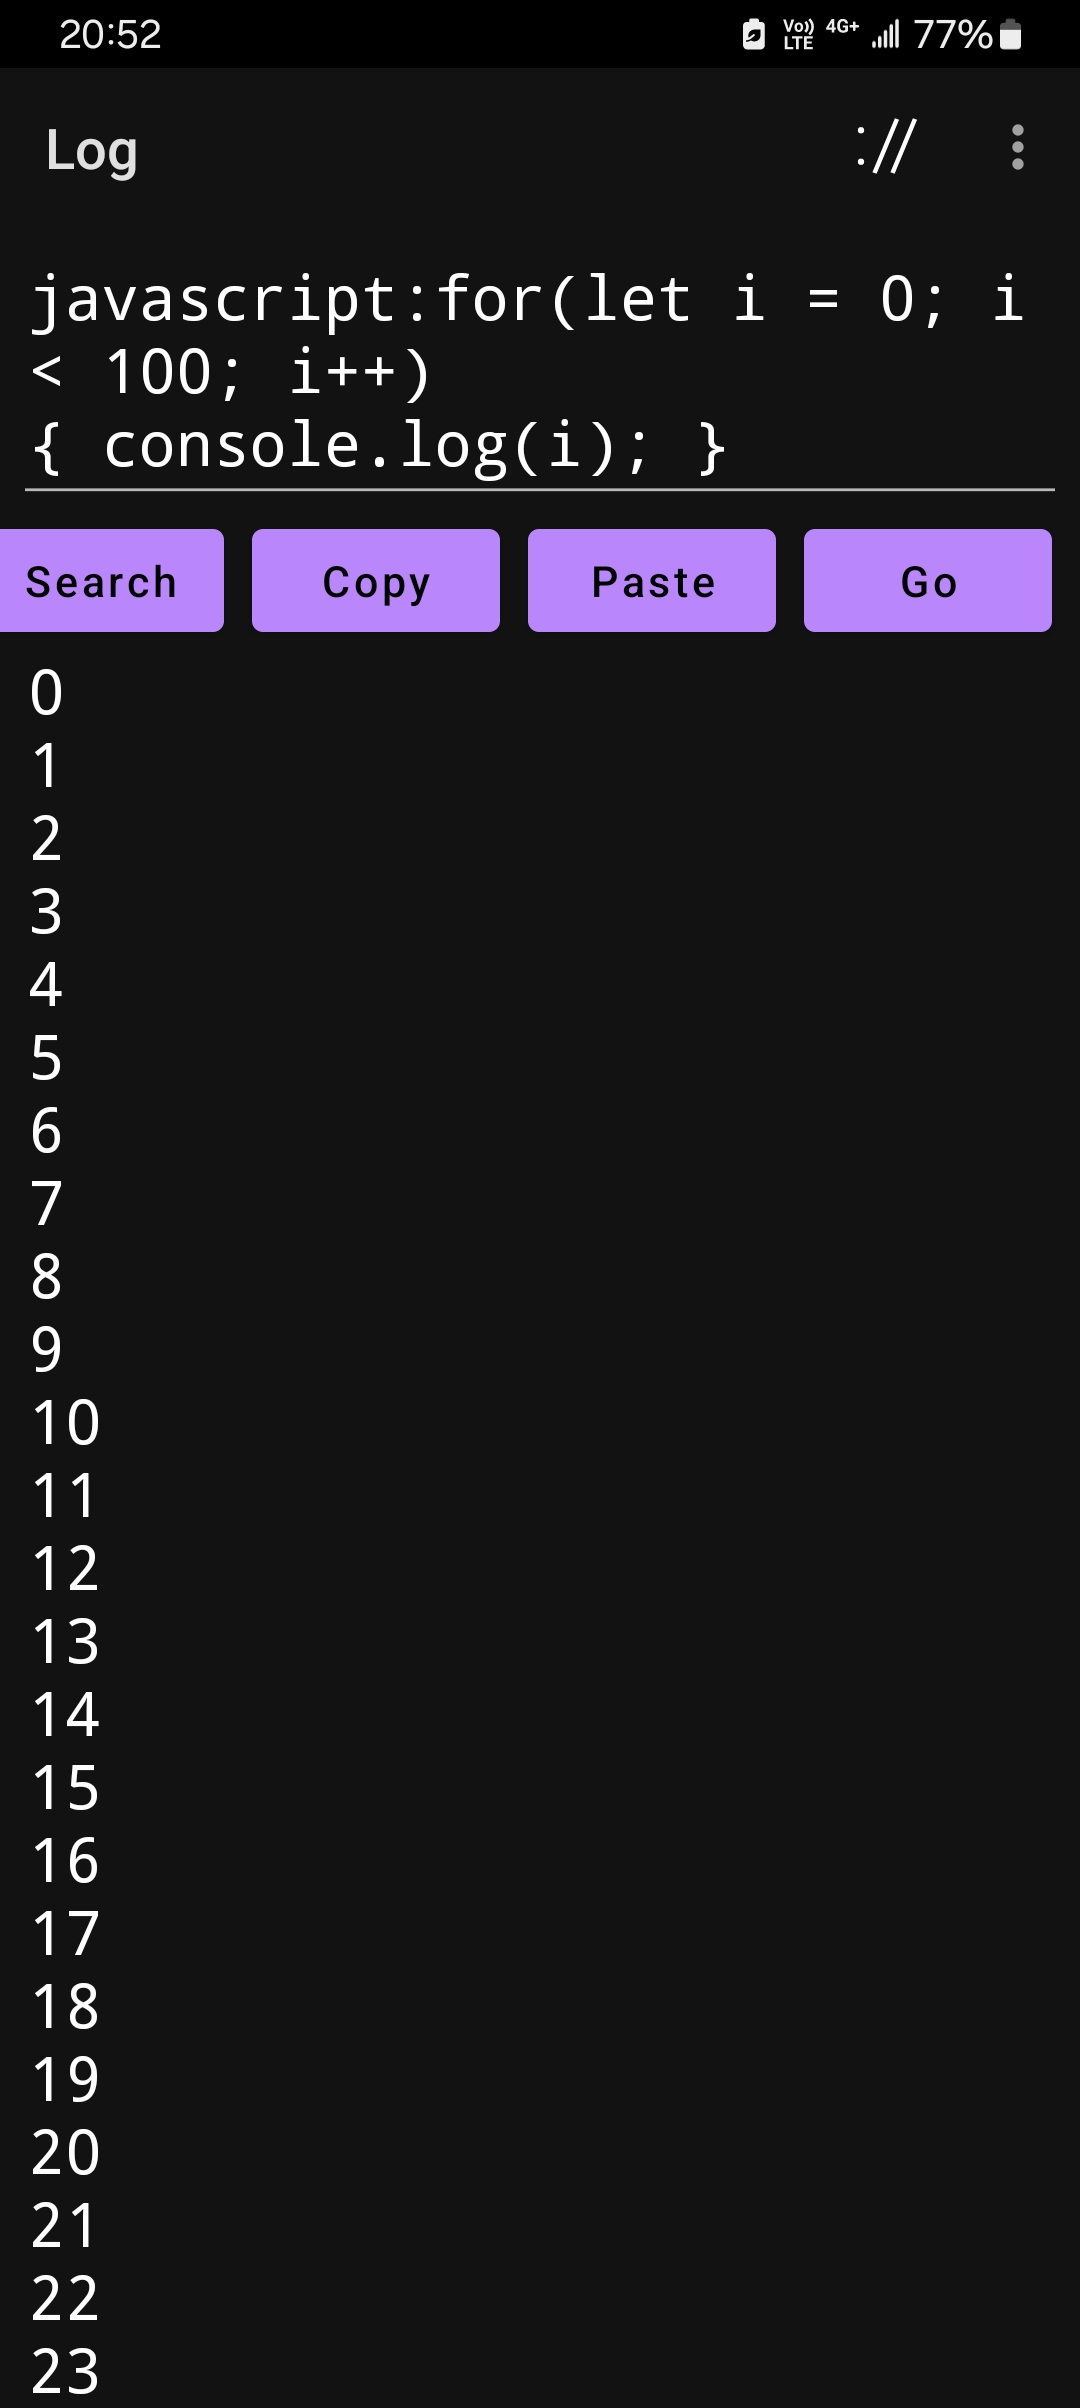
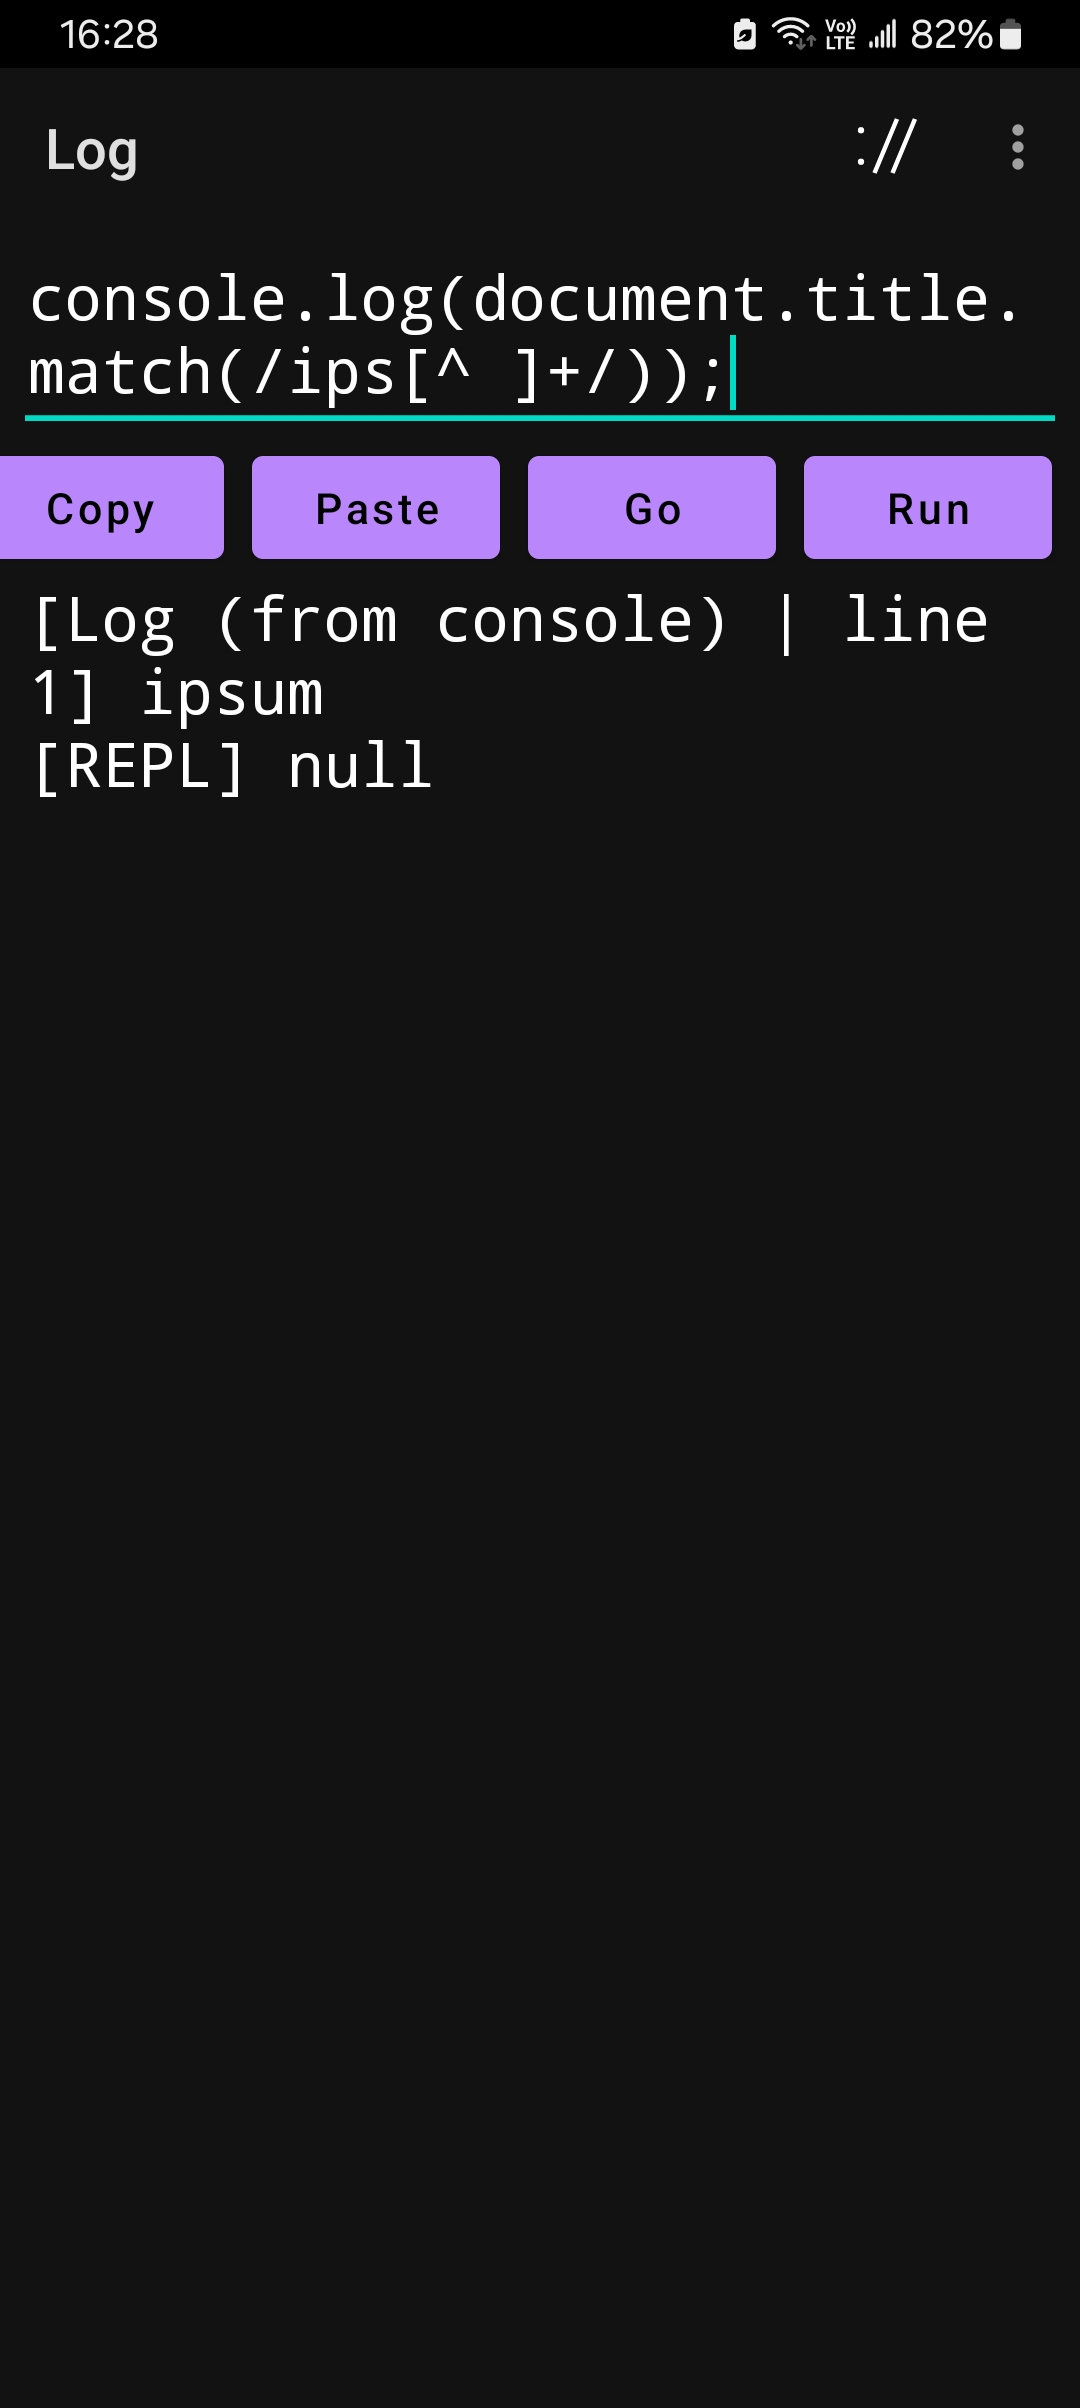
Fix the console mode. However, the support for `javascript:` scheme is considered deprecated from now on. The reason is that it is no longer handled correctly by the framework (this indicates that it might have been deprecated in the framework or platform). Use the 'Run' button instead if you still 

diff --git a/app/src/main/java/test/sls1005/projects/fundamentalbrowser/MainActivity.kt b/app/src/main/java/test/sls1005/projects/fundamentalbrowser/MainActivity.kt
@@ -81,13 +81,13 @@ open class MainActivity : ConfiguratedActivity() {
                             logMsgs.clear()
                         }
                     }
+                    val notShowingLog = !isShowingLog()
                     if (hasNotLoadedAnyPage()) {
-                        if (!isShowingLog()) {
+                        if (notShowingLog) {
                             showLog()
                         }
-                    } else {
+                    } else if (notShowingLog) {
                         hideUrlBar()
-                        hideLogIfShowing()
                     }
                     textToDisplayInUrlField = url
                     load(url, updateCurrentUrl = false)

diff --git a/README.md b/README.md
@@ -48,7 +48,7 @@ A developer-friendly browser should: (A checked box means implemented or already
 
 - [x] Support `view-source:`. (Supported through framework)
 
-- [x] Support `javascript:`. (Supported through framework; the output of `console.log` will be joined with the app's log.)
+- [x] <strike>Support `javascript:`.</strike> (Supported through framework, but considered deprecated now in this app.)
 
 **The following features are not planned and thus will not be implemented in near future:**
 
@@ -68,21 +68,21 @@ A developer-friendly browser should: (A checked box means implemented or already
 
 To make the search button usable, the 'Search URL' must be set. The search button is not the same as the 'Go' button, which loads a page of a given URL but will not do search, while the search button will not load a URL but... search for it.
 
-#### Console mode
+#### Console and REPL
 
-To enter the console mode, input some code with the `javascript:` prefix in the URL field and press the 'Go' button while the log window is opened, or load it before loading any page or search. You must prefix each command with `javascript:` to keep it in this mode. This can also be used as an interpreter. Remember not to use the 'Search' button, which will not execute any code in the URL field, but will search it.
+To use the console and REPL features, input some code (should normally be JS code) in the URL field and then use the 'Run' button (enabled in settings) to execute it.
 
 ![](screenshots/screenshot4.jpg)
 
-Alternatively, you can use the (optional) 'Run' button to run the code (enabled in settings), in which case you don't have to (and must not) add the `javascript:` prefix.
-
 ![](screenshots/screenshot5.jpg)
 
-Using a command prefixed with `javascript:` in any other situation will cause it to be executed normally, as if loading a URL. The execution of such code, even in the console mode, is never handled by this app, but by the framework or system. This app only implemented the logic to display the log messages.
+![](screenshots/screenshot6.jpg)
+
+The support for `javascript:` scheme in this app is considered deprecated since Mar. 2025, and now the recommended way to run code in this app is to use the 'Run' button. The execution of such code, even in the console mode, is never handled by this app, but by the framework or system. This app only implemented the logic to display the log messages.
 
 #### Generalized intent sender and activity launcher
 
-![](screenshots/screenshot6.jpg)
+![](screenshots/screenshot7.jpg)
 
 See <a href="#Details">details</a> for more information about this usage.
 
@@ -106,7 +106,7 @@ See <a href="#Details">details</a> for more information about this usage.
 
 * Intent scheme URIs are half-supported. That is to say, they will usually be processed correctly, and the instantiated intent may be launched if approved by the user; however, this app usually doesn't check if a URI is an `intent:` URI, except when trying to protect itself from intent-based attacks. (See <a href="#References">[1]</a>.) Instead, `intent:` URIs will be treated as if they were URIs of unrecognized schemes (such as `abc://`), for any of which this app will ask if it should launch an intent. Nonetheless, the app will not ask nor try to launch any intent if it detects that the intent would be sent back to the activity itself or to any other component of this application (for which case it might not create a log entry and can show an error message), so as to prevent the security issue mentioned in <a href="#References">[1]</a>. Despite being suggested in <a href="#References">[2]</a>, this app doesn't use `CATEGORY_BROWSABLE` to instantiate such intents, as it would still be insufficient according to <a href="#References">[1]</a> (and this app doesn't use the unsafe constant anyway). This application has its own security-related mechanism as mentioned above; basically, an `intent:` URI is forbidden if it would be sent back to this app; it is otherwise up to the user's explicit intention. If this mechanism is proved to still be insufficient, please open an issue to let me know.
 
-* By using some code that looks like `javascript:location.href="intent:#Intent;...;end"`, you can utilize this app as a generalized intent sender and activity launcher (by specifying `action`, `component`, etc. in the form of text; remember to use constant values rather than their names). Unlike in <a href="#References">[1]</a>, you don't have to add `SEL` (which should have no effect anyway), as the rules mentioned above still apply: you can't use it to access any activity of this app; for other apps, only exported activities. This usage is still under test.
+* By using some code that looks like `location.href="intent:#Intent;...;end"`, you can utilize this app as a generalized intent sender and activity launcher (by specifying `action`, `component`, etc. in the form of text; remember to use constant values rather than their names). Unlike in <a href="#References">[1]</a>, you don't have to add `SEL` (which should have no effect anyway), as the rules mentioned above still apply: you can't use it to access any activity of this app; for other apps, only exported activities. This usage is still under test.
 
 ### Projects that offer similar functionalities
 
